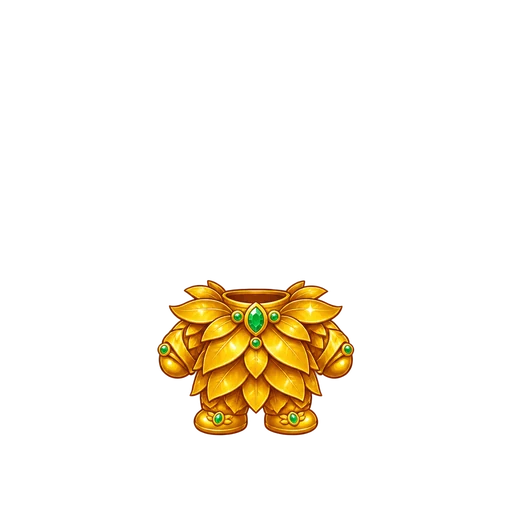
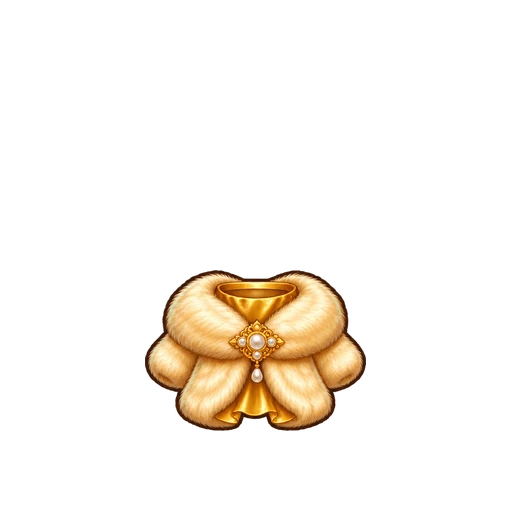
황금 유칼립투스 갑옷 → 황금 모피옷(밍크 숄칼라 재킷)으로 교체
Claude-Session: https://claude.ai/code/session_015t7mwg1NEPVKJN39Z7Zz4S

Changed region(s): [[0.2812, 0.5, 0.7188, 0.875]]

diff --git a/js/social.js b/js/social.js
@@ -49,7 +49,7 @@ const tubeSvg = (c = '#FF6B6B', part = 'front') => { const ring = `<ellipse cx="
 // 동물마다 다른 보트: 몸 색 선체 + 뱃머리의 귀 + 상징이 그려진 돛
 // 초레어 보물: 단짝(100점)이 된 동물에게서만 1500코인에 산다. 걸치면 몸에서 빛이 나서 지나가는 동물이 모두 칭찬한다
 export const RARE_PRICE = 1500, RARE_AT = 100;
-const RARE_NAMES = ['황금 뼈다귀 왕홀', '황금 고양이귀 티아라', '황금 치즈 방패', '황금 하트 선글라스', '황금 당근 검', '황금 구미호 예복', '황금 꿀단지 왕관', '황금 대나무 선글라스', '황금 유칼립투스 갑옷', '황금 호피 갑옷', '황금 사자 갈기 왕관', '황금 뿔 투구', '황금 꿀꿀 바지', '황금 연잎 치마', '황금 여의봉', '황금 볏 투구', '황금 눈꽃 고글', '황금 병아리 날개', '황금 오리 튜브', '황금 부엉이 날개', '황금 늑대 털 조끼', '황금 엄니 투구', '황금 기마 재킷', '황금 유니콘 티아라', '황금 거북 등껍질 갑옷', '황금 문어 삼지창', '황금 세일러 상의', '황금 가시 망토', '황금 다람쥐 꼬리', '황금 너구리 가면'];
+const RARE_NAMES = ['황금 뼈다귀 왕홀', '황금 고양이귀 티아라', '황금 치즈 방패', '황금 하트 선글라스', '황금 당근 검', '황금 구미호 예복', '황금 꿀단지 왕관', '황금 대나무 선글라스', '황금 모피옷', '황금 호피 갑옷', '황금 사자 갈기 왕관', '황금 뿔 투구', '황금 꿀꿀 바지', '황금 연잎 치마', '황금 여의봉', '황금 볏 투구', '황금 눈꽃 고글', '황금 병아리 날개', '황금 오리 튜브', '황금 부엉이 날개', '황금 늑대 털 조끼', '황금 엄니 투구', '황금 기마 재킷', '황금 유니콘 티아라', '황금 거북 등껍질 갑옷', '황금 문어 삼지창', '황금 세일러 상의', '황금 가시 망토', '황금 다람쥐 꼬리', '황금 너구리 가면'];
 export const rareName = i => RARE_NAMES[i] || `빛나는 ${ANIMALS[i].name} 보물`;
 // 걸친 보물은 여섯 개까지(자리가 겹치지 않게 다 채우면 여섯). 저장 값은 예전처럼 숫자 하나일 수도, 목록일 수도 있다
 export const RARE_MAX = 6;
